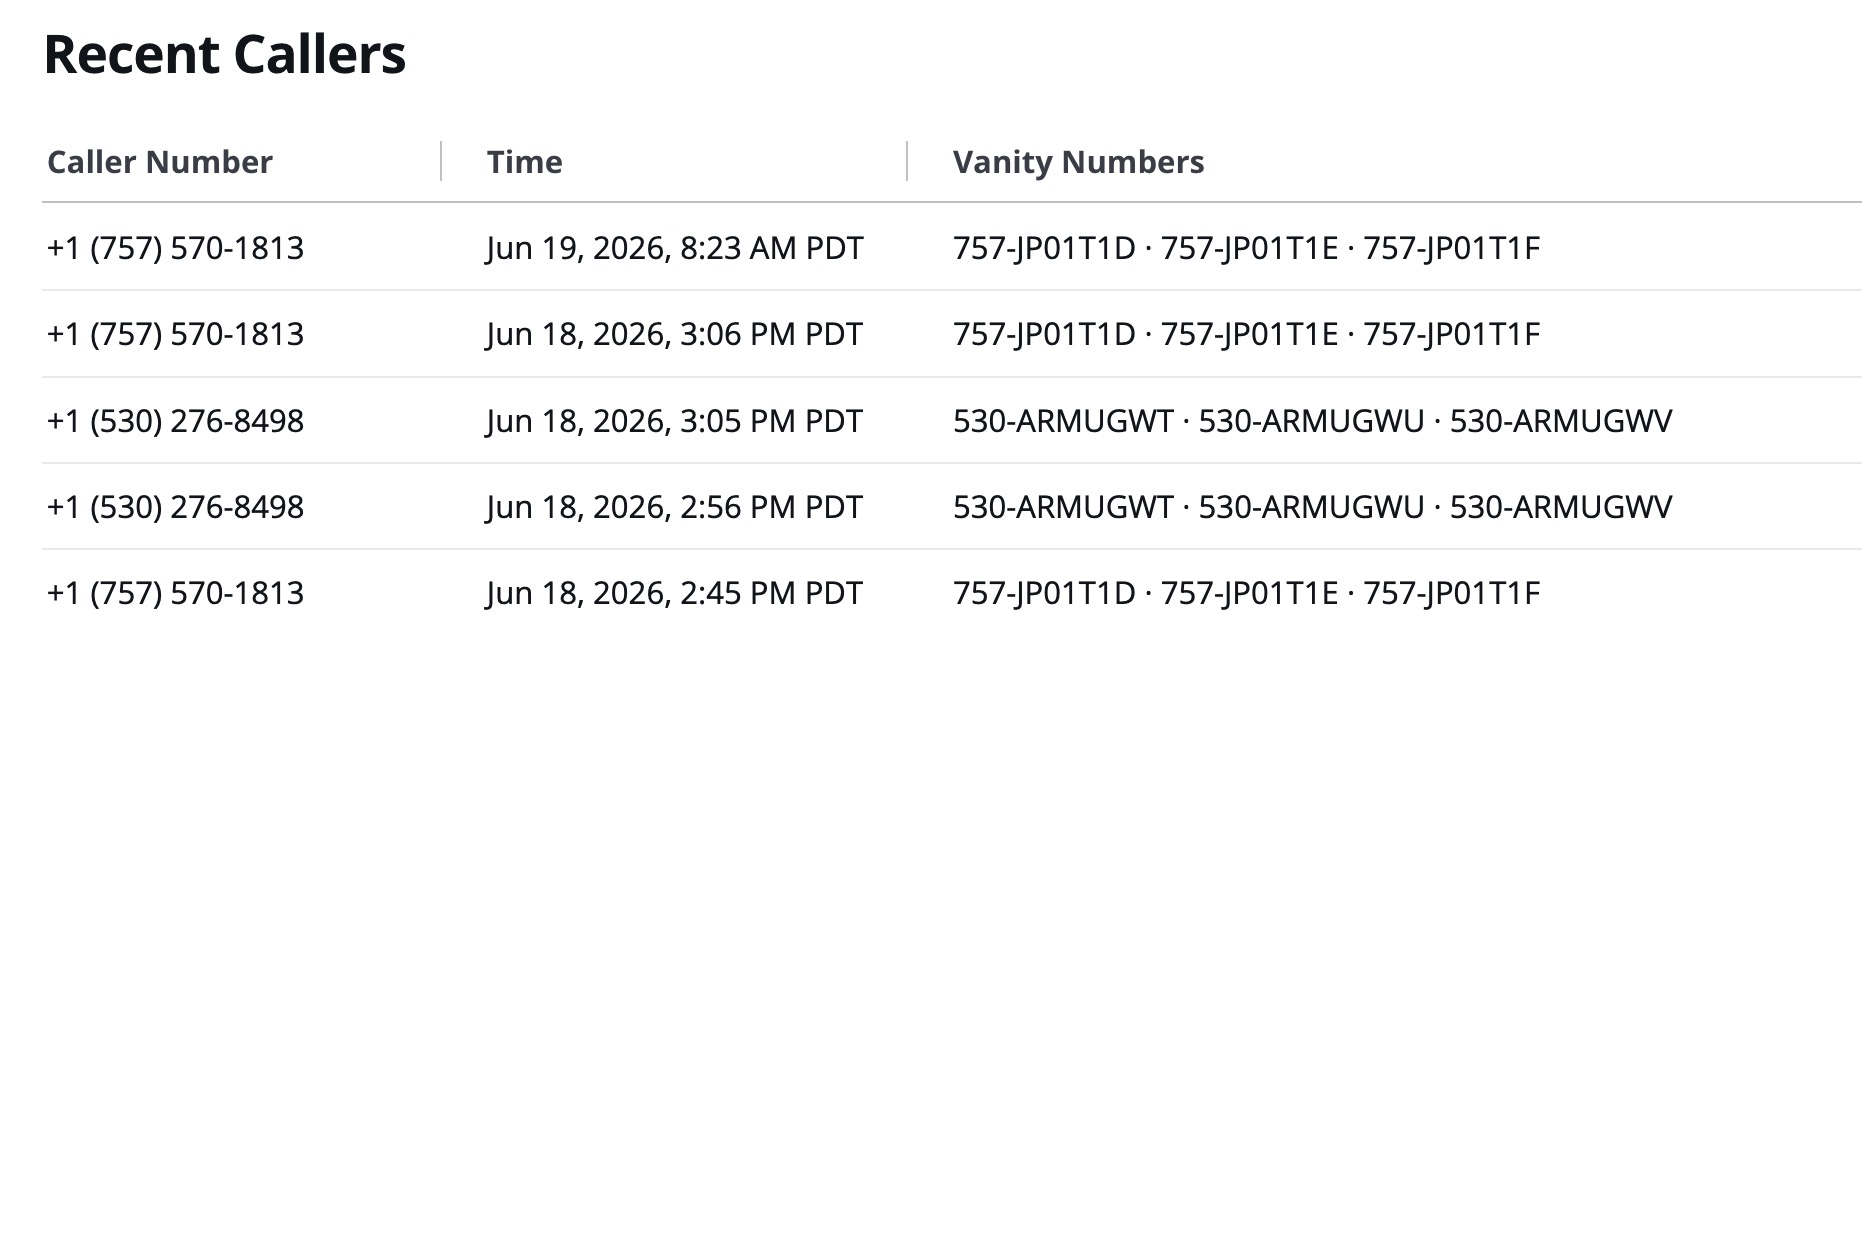
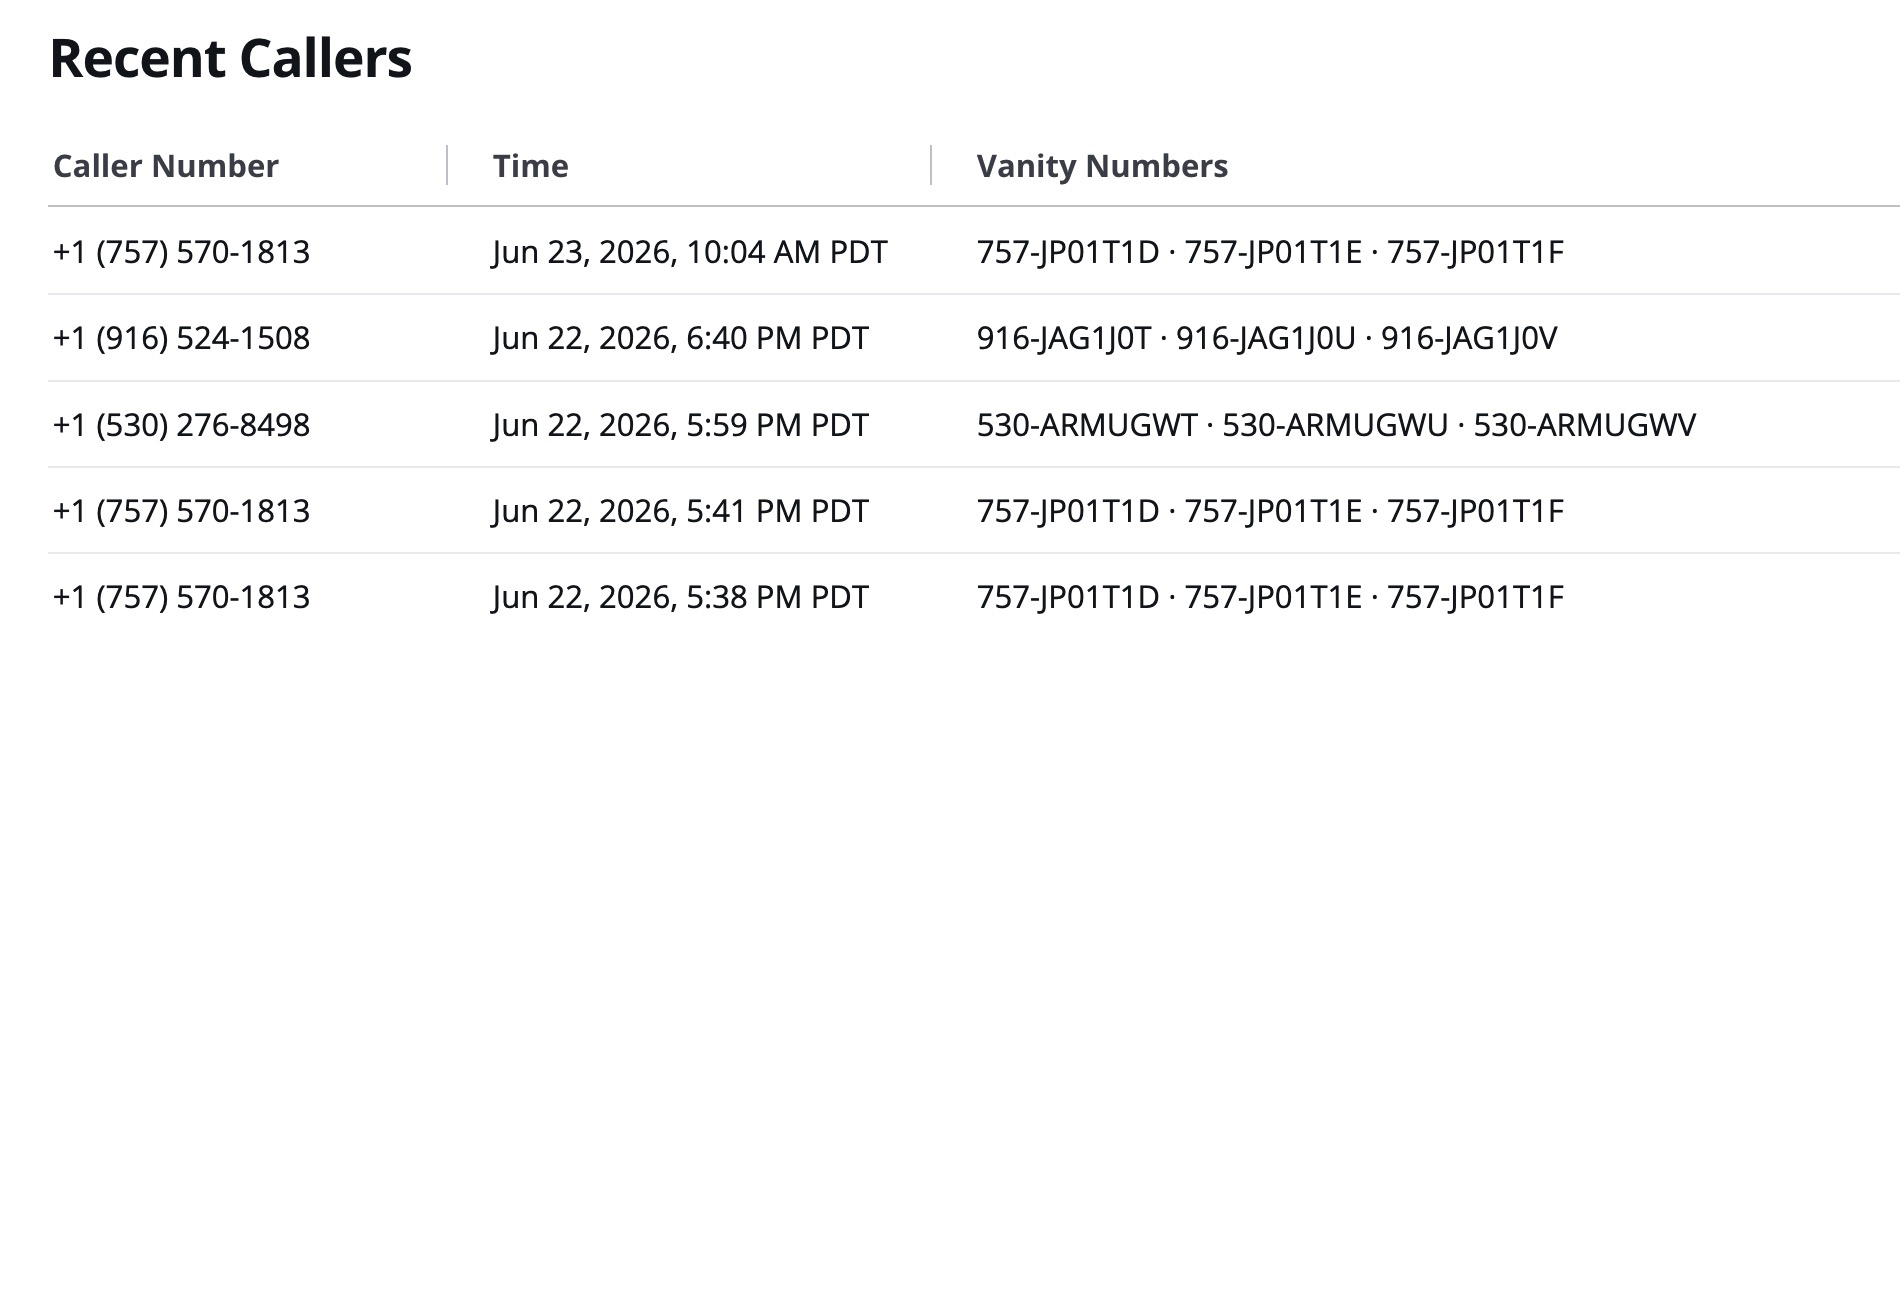
docs(architecture): update diagrams

diff --git a/docs/ARCHITECTURE.md b/docs/ARCHITECTURE.md
@@ -23,8 +23,6 @@ Amazon Connect
     ▼
 Contact Flow
     │
-    ├─[No caller ID]──► Play error message ──► Disconnect
-    │
     ├─ Invoke Lambda: VanityConverter (timeout: 8s)
     │     │
     │     ├─[Lambda error]──► Play error message ──► Disconnect
@@ -236,6 +234,9 @@ The contact flow source of truth is `infrastructure/contact-flow.json`, deployed
 
 ```
 [Start]
+    │
+    ▼
+[Set Logging Behavior: Enabled]
     │
     ▼
 [Set Voice: Matthew]

diff --git a/README.md b/README.md
@@ -165,7 +165,7 @@ This rebuilds the Vite bundle and syncs `web/dist/` to S3.
 
 **Architecture diagram:**
 
-![Architecture diagram](docs/screenshots/architecture-diagram.jpg)
+![Architecture diagram](docs/screenshots/architecture-diagram.png)
 
 **Contact flow in Amazon Connect:**
 